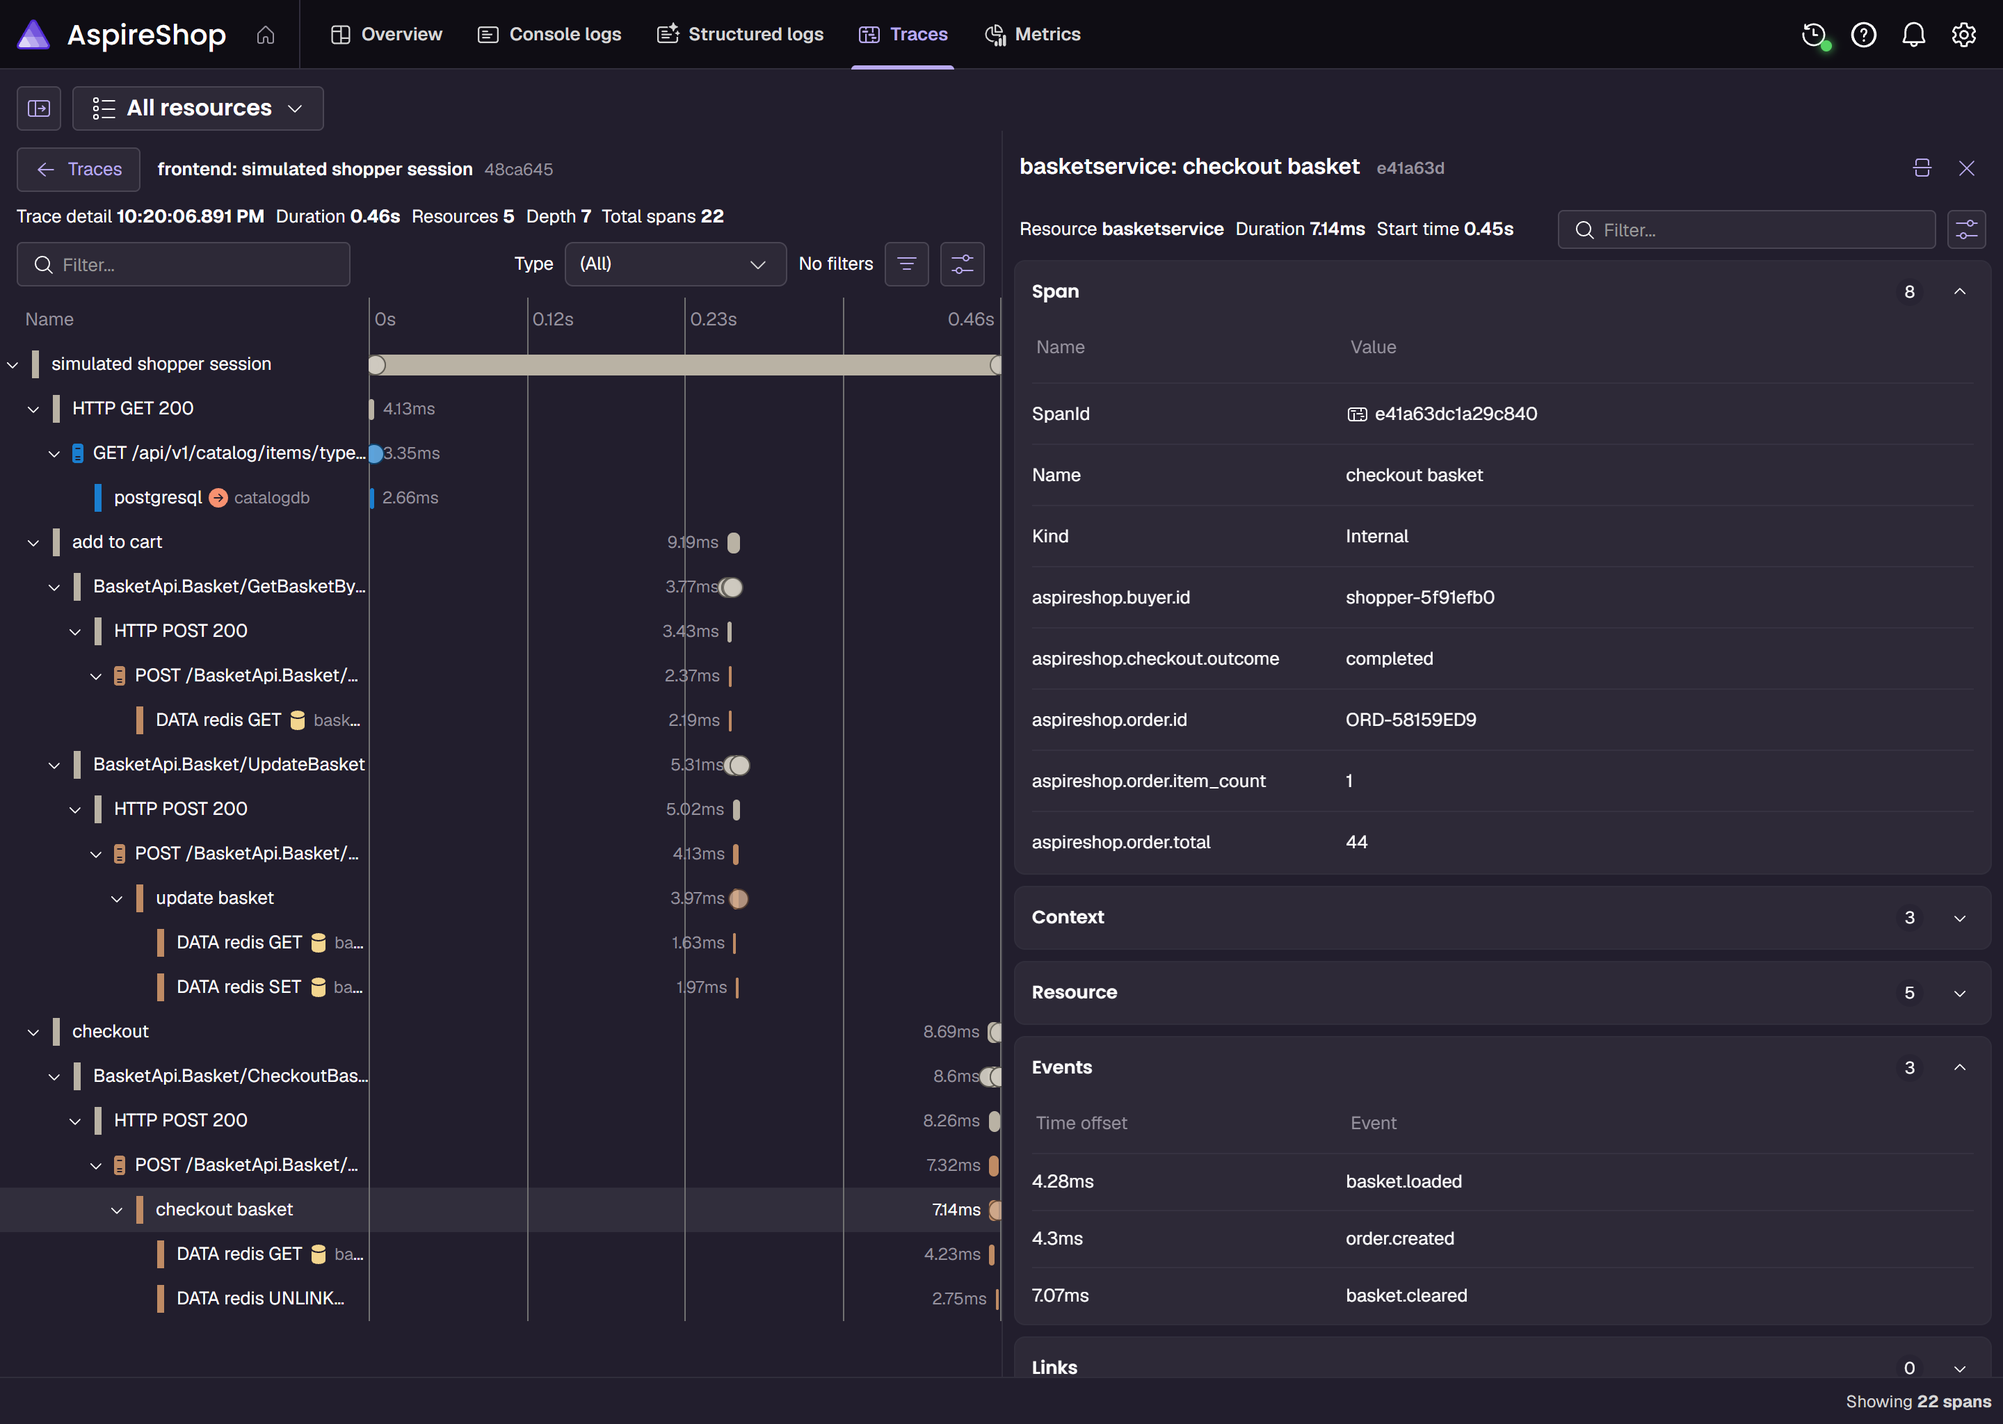
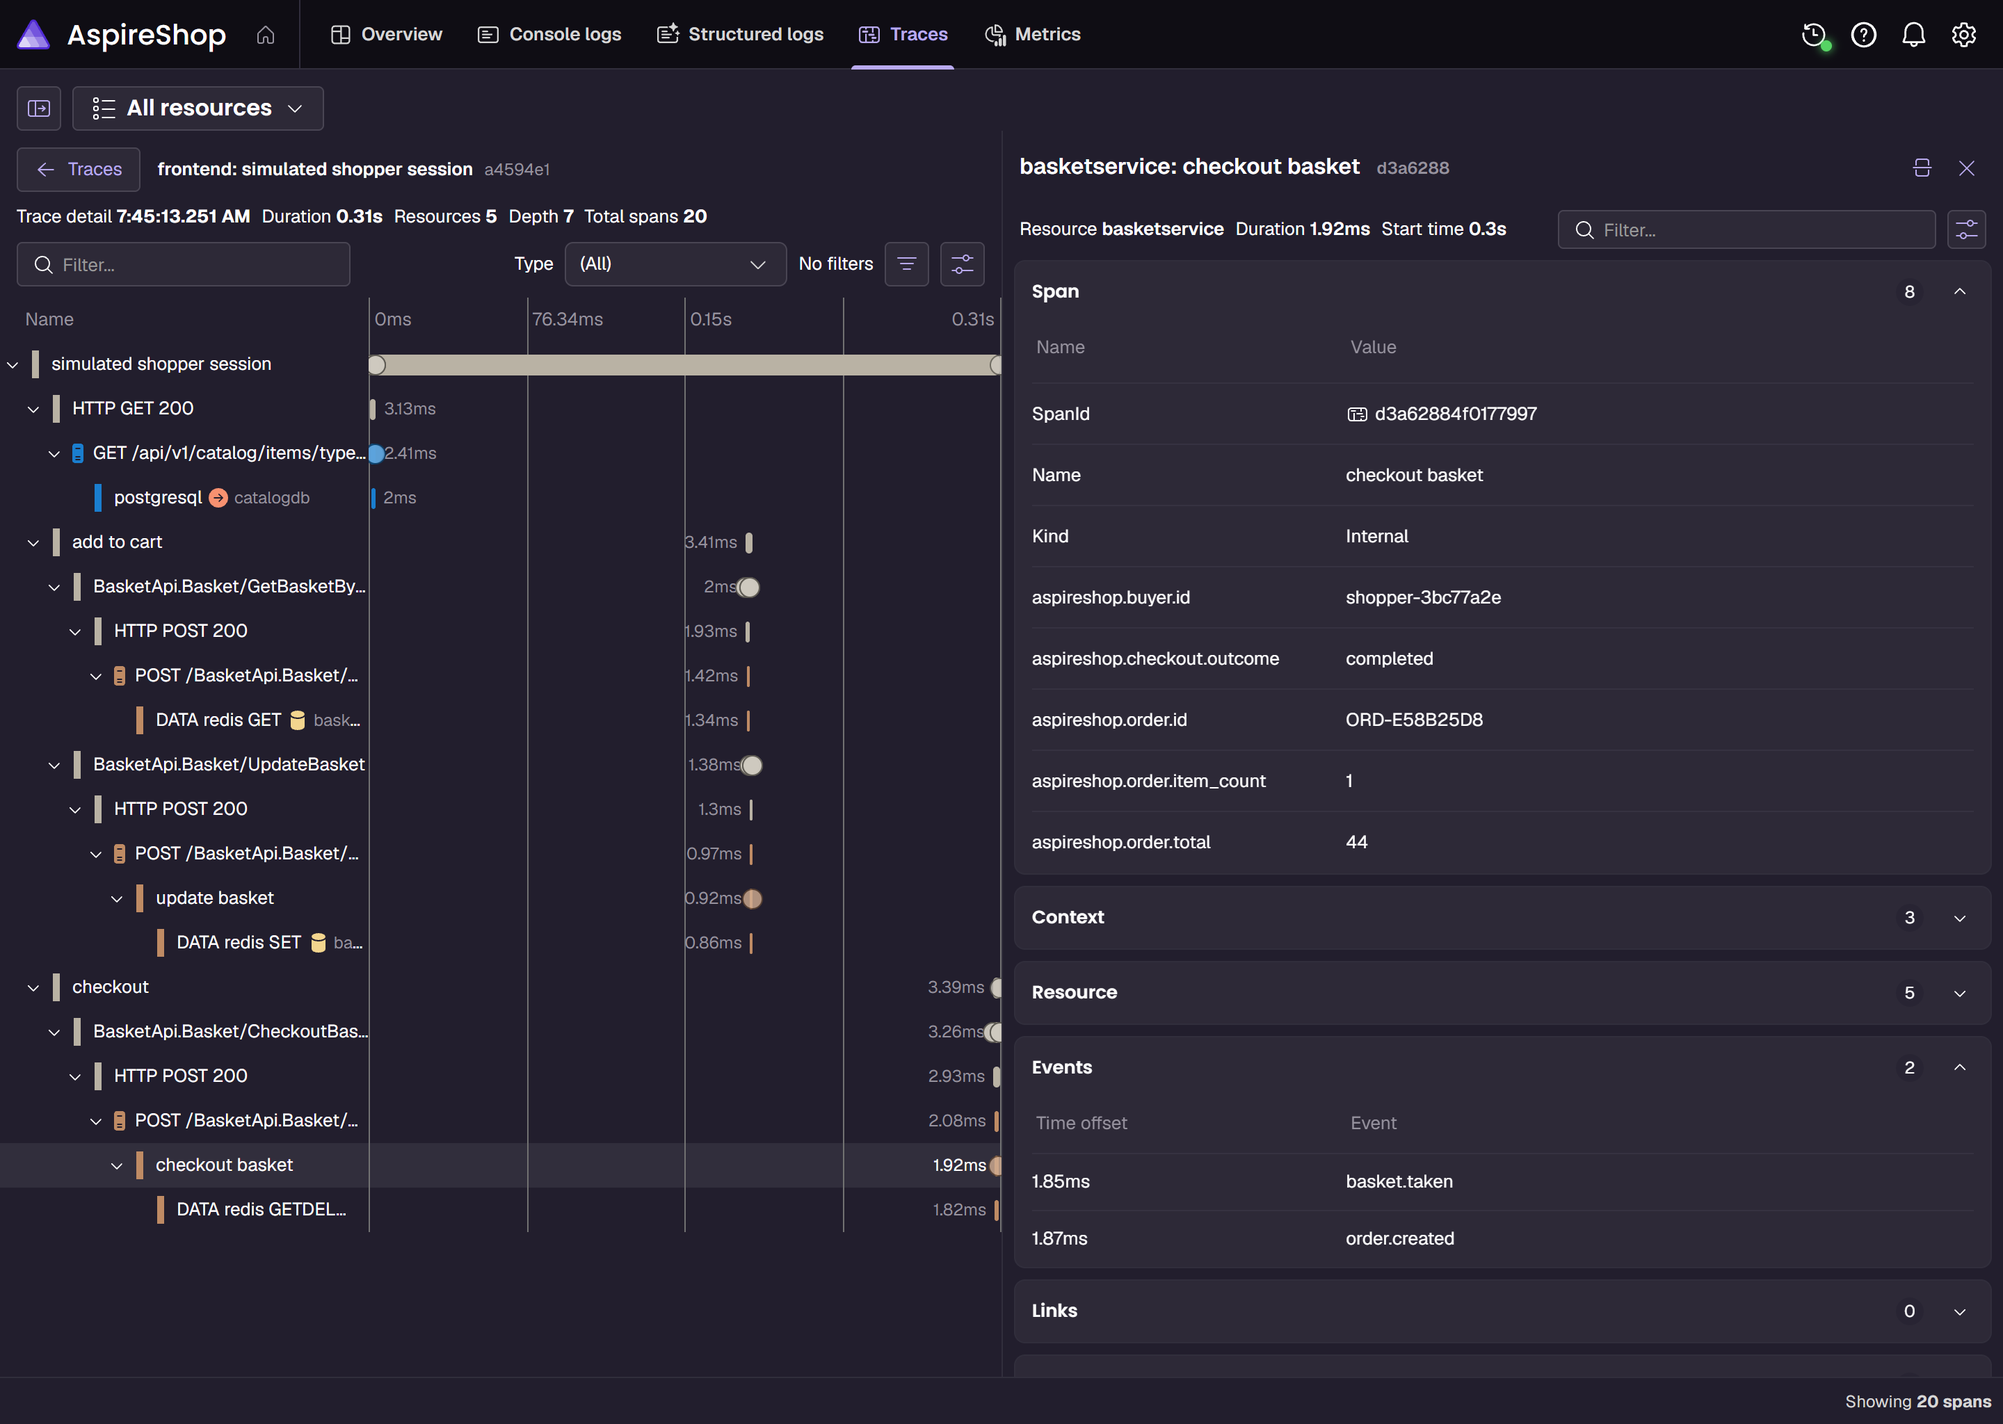
aspire-shop: address review feedback
- Basket service takes the basket with Redis GETDEL at checkout, so overlapping checkouts create one order and the rest are rejected as not_found
- UpdateBasket uses SET ... GET and derives basket metrics from the value that write replaced
- Checkout response returns the ordered items; the cart confirmation renders them at their captured unit prices, with a placeholder for unavailable products
- Cart shows captured unit prices, blocks checkout until unavailable items are removed, and backfills catalog prices for baskets saved before prices were captured
- A checkout posted after the basket was already checked out re-renders the empty cart instead of returning 400

diff --git a/samples/aspire-shop/AspireShop.Frontend/wwwroot/site.css b/samples/aspire-shop/AspireShop.Frontend/wwwroot/site.css
@@ -1229,6 +1229,12 @@ h1:focus-visible {
     width: 100%;
 }
 
+.btn:disabled {
+    opacity: .5;
+    cursor: not-allowed;
+    pointer-events: none;
+}
+
 .btn-primary {
     background: var(--accent-strong);
     color: var(--accent-contrast);

diff --git a/samples/aspire-shop/AspireShop.BasketService/BasketService.cs b/samples/aspire-shop/AspireShop.BasketService/BasketService.cs
@@ -26,16 +26,19 @@ public class BasketService(IBasketRepository repository, BasketTelemetry telemet
 
     public override async Task<CustomerBasketResponse> UpdateBasket(CustomerBasketRequest request, ServerCallContext context)
     {
+        if (string.IsNullOrEmpty(request.BuyerId))
+        {
+            throw new RpcException(new Status(StatusCode.InvalidArgument, "A buyer id is required"));
+        }
+
         using var activity = BasketTelemetry.ActivitySource.StartActivity("update basket");
         activity?.SetTag("aspireshop.buyer.id", request.BuyerId);
 
-        var previous = await repository.GetBasketAsync(request.BuyerId);
         var customerBasket = MapToCustomerBasket(request);
 
-        if (!await repository.UpdateBasketAsync(customerBasket))
-        {
-            throw new RpcException(new Status(StatusCode.NotFound, $"Basket with buyer id {request.BuyerId} does not exist"));
-        }
+        // The write returns the basket it replaced, so the metrics describe this exact change even when
+        // updates for the same buyer overlap (only one of them can find no previous basket and create it)
+        var previous = await repository.UpdateBasketAsync(customerBasket);
 
         var (itemsAdded, itemsRemoved) = CompareQuantities(previous, customerBasket);
         telemetry.BasketChanged(created: previous is null, itemsAdded, itemsRemoved);
@@ -58,13 +61,16 @@ public class BasketService(IBasketRepository repository, BasketTelemetry telemet
         using var activity = BasketTelemetry.ActivitySource.StartActivity("checkout basket");
         activity?.SetTag("aspireshop.buyer.id", buyerId);
 
-        var basket = await repository.GetBasketAsync(buyerId);
+        // Take the basket out of Redis in one step, so when checkouts of the same basket overlap only one of
+        // them gets its items and the others find no basket and are rejected
+        var basket = await repository.TakeBasketAsync(buyerId);
 
         if (basket is not { Items.Count: > 0 })
         {
             var outcome = basket is null ? "not_found" : "empty";
             activity?.SetTag("aspireshop.checkout.outcome", outcome);
-            telemetry.CheckoutRejected(outcome);
+            // An empty basket was taken too, which leaves the buyer with the same (empty) cart
+            telemetry.CheckoutRejected(outcome, basketRemoved: basket is not null);
             logger.CheckoutRejected(buyerId, outcome);
 
             throw basket is null
@@ -72,7 +78,7 @@ public class BasketService(IBasketRepository repository, BasketTelemetry telemet
                 : new RpcException(new Status(StatusCode.FailedPrecondition, $"Basket with buyer id {buyerId} is empty"));
         }
 
-        activity?.AddEvent(new ActivityEvent("basket.loaded"));
+        activity?.AddEvent(new ActivityEvent("basket.taken"));
 
         var order = new Order
         {
@@ -88,19 +94,19 @@ public class BasketService(IBasketRepository repository, BasketTelemetry telemet
 
         // Payment and fulfillment would be implemented here
 
-        await repository.DeleteBasketAsync(buyerId);
-        activity?.AddEvent(new ActivityEvent("basket.cleared"));
-
         activity?.SetTag("aspireshop.checkout.outcome", "completed");
         telemetry.CheckoutCompleted(order.Total);
         logger.OrderCreated(order.Id, buyerId, order.ItemCount, order.Total);
 
-        return new CheckoutCustomerBasketResponse
+        var response = new CheckoutCustomerBasketResponse
         {
             OrderId = order.Id,
             ItemCount = order.ItemCount,
             Total = order.Total
         };
+        response.Items.AddRange(order.Items.Select(MapToBasketItemResponse));
+
+        return response;
     }
 
     public override async Task<DeleteCustomerBasketResponse> DeleteBasket(DeleteCustomerBasketRequest request, ServerCallContext context)
@@ -134,21 +140,19 @@ public class BasketService(IBasketRepository repository, BasketTelemetry telemet
         {
             BuyerId = customerBasket.BuyerId
         };
-
-        foreach (var item in customerBasket.Items)
-        {
-            response.Items.Add(new BasketItemResponse
-            {
-                Id = item.Id ?? Guid.NewGuid().ToString(),
-                OldUnitPrice = item.OldUnitPrice,
-                ProductId = item.ProductId,
-                Quantity = item.Quantity,
-                UnitPrice = item.UnitPrice
-            });
-        }
+        response.Items.AddRange(customerBasket.Items.Select(MapToBasketItemResponse));
 
         return response;
     }
+
+    private static BasketItemResponse MapToBasketItemResponse(BasketItem item) => new()
+    {
+        Id = item.Id ?? Guid.NewGuid().ToString(),
+        OldUnitPrice = item.OldUnitPrice,
+        ProductId = item.ProductId,
+        Quantity = item.Quantity,
+        UnitPrice = item.UnitPrice
+    };
 
     private static CustomerBasket MapToCustomerBasket(CustomerBasketRequest customerBasketRequest)
     {

diff --git a/samples/aspire-shop/AspireShop.Frontend/Services/BasketServiceClient.cs b/samples/aspire-shop/AspireShop.Frontend/Services/BasketServiceClient.cs
@@ -67,7 +67,7 @@ public class BasketServiceClient(Basket.BasketClient client, FrontendTelemetry t
         try
         {
             var response = await client.CheckoutBasketAsync(new CheckoutCustomerBasketRequest { BuyerId = buyerId });
-            var order = new OrderConfirmation(response.OrderId, response.ItemCount, response.Total);
+            var order = new OrderConfirmation(response.OrderId, response.ItemCount, response.Total, [.. response.Items.Select(MapToBasketItem)]);
             var elapsed = Stopwatch.GetElapsedTime(start);
 
             activity?.SetTag("aspireshop.order.id", order.OrderId);
@@ -92,6 +92,31 @@ public class BasketServiceClient(Basket.BasketClient client, FrontendTelemetry t
     public async Task DeleteBasketAsync(string buyerId)
     {
         _ = await client.DeleteBasketAsync(new DeleteCustomerBasketRequest { BuyerId = buyerId });
+    }
+
+    /// <summary>
+    /// Baskets saved by earlier versions of the sample didn't capture a unit price. Capture the current catalog
+    /// price for those items, so the cart shows the same prices the Basket service totals at checkout.
+    /// </summary>
+    public async Task<CustomerBasket> BackfillUnitPricesAsync(CustomerBasket basket, IEnumerable<CatalogItem> catalogItems)
+    {
+        var prices = catalogItems.ToDictionary(i => i.Id, i => i.Price);
+        var unpriced = basket.Items.Where(i => i.UnitPrice <= 0 && prices.ContainsKey(i.ProductId)).ToList();
+
+        if (unpriced.Count == 0)
+        {
+            return basket;
+        }
+
+        foreach (var item in unpriced)
+        {
+            item.UnitPrice = prices[item.ProductId];
+        }
+
+        var response = await client.UpdateBasketAsync(MapToCustomerBasketRequest(basket));
+        logger.UnitPricesBackfilled(unpriced.Count, basket.BuyerId!);
+
+        return MapToCustomerBasket(response);
     }
 
     public async Task<CustomerBasket> AdjustItemQuantityAsync(string buyerId, int productId, int delta)
@@ -165,21 +190,20 @@ public class BasketServiceClient(Basket.BasketClient client, FrontendTelemetry t
         {
             BuyerId = wireBasket.BuyerId
         };
-
-        foreach (var item in wireBasket.Items)
-        {
-            response.Items.Add(new BasketItem
-            {
-                Id = item.Id,
-                OldUnitPrice = item.OldUnitPrice,
-                ProductId = item.ProductId,
-                Quantity = item.Quantity,
-                UnitPrice = item.UnitPrice
-            });
-        }
+        response.Items.AddRange(wireBasket.Items.Select(MapToBasketItem));
 
         return response;
     }
+
+    private static BasketItem MapToBasketItem(BasketItemResponse item) => new()
+    {
+        Id = item.Id,
+        OldUnitPrice = item.OldUnitPrice,
+        ProductId = item.ProductId,
+        Quantity = item.Quantity,
+        UnitPrice = item.UnitPrice
+    };
 }
 
-public record OrderConfirmation(string OrderId, int ItemCount, decimal Total);
+/// <summary>An order created by the Basket service, with the items it ordered at the prices it totaled.</summary>
+public record OrderConfirmation(string OrderId, int ItemCount, decimal Total, IReadOnlyList<BasketItem> Items);

diff --git a/samples/aspire-shop/AspireShop.BasketService/Repositories/RedisBasketRepository.cs b/samples/aspire-shop/AspireShop.BasketService/Repositories/RedisBasketRepository.cs
@@ -13,16 +13,23 @@ public class RedisBasketRepository(IConnectionMultiplexer redis) : IBasketReposi
 
     private readonly IDatabase _database = redis.GetDatabase();
 
-    public async Task<CustomerBasket?> GetBasketAsync(string buyerId)
-    {
-        var data = await _database.StringGetAsync(buyerId);
+    public async Task<CustomerBasket?> GetBasketAsync(string buyerId) =>
+        Deserialize(await _database.StringGetAsync(buyerId));
 
-        return data.IsNullOrEmpty ? null : JsonSerializer.Deserialize<CustomerBasket>((string)data!, s_jsonSerializerOptions);
+    // SET ... GET writes the basket and returns the value it replaced in one atomic command
+    public async Task<CustomerBasket?> UpdateBasketAsync(CustomerBasket basket)
+    {
+        ArgumentException.ThrowIfNullOrEmpty(basket.BuyerId);
+
+        return Deserialize(await _database.StringSetAndGetAsync(basket.BuyerId, JsonSerializer.Serialize(basket, s_jsonSerializerOptions)));
     }
 
-    public async Task<bool> UpdateBasketAsync(CustomerBasket basket) =>
-        basket.BuyerId is { Length: > 0 } buyerId
-        && await _database.StringSetAsync(buyerId, JsonSerializer.Serialize(basket, s_jsonSerializerOptions));
+    // GETDEL reads and removes the basket in one atomic command, so only one caller can take it
+    public async Task<CustomerBasket?> TakeBasketAsync(string buyerId) =>
+        Deserialize(await _database.StringGetDeleteAsync(buyerId));
 
     public Task<bool> DeleteBasketAsync(string buyerId) => _database.KeyDeleteAsync(buyerId);
+
+    private static CustomerBasket? Deserialize(RedisValue data) =>
+        data.IsNullOrEmpty ? null : JsonSerializer.Deserialize<CustomerBasket>((string)data!, s_jsonSerializerOptions);
 }

diff --git a/samples/aspire-shop/AspireShop.Frontend/Log.cs b/samples/aspire-shop/AspireShop.Frontend/Log.cs
@@ -21,4 +21,8 @@ internal static partial class Log
     [LoggerMessage(EventId = 3005, Level = LogLevel.Information,
         Message = "Simulated {ShopperCount} shoppers: {OrdersPlaced} orders placed ({Revenue} USD), {BasketsAbandoned} baskets abandoned, {BasketsLeftOpen} left open, {Failed} failed")]
     public static partial void ShopperTrafficSimulated(this ILogger logger, int shopperCount, int ordersPlaced, decimal revenue, int basketsAbandoned, int basketsLeftOpen, int failed);
+
+    [LoggerMessage(EventId = 3006, Level = LogLevel.Information,
+        Message = "Captured catalog prices for {ItemCount} unpriced items in the basket for buyer {BuyerId}")]
+    public static partial void UnitPricesBackfilled(this ILogger logger, int itemCount, string buyerId);
 }

diff --git a/samples/aspire-shop/AspireShop.BasketService/Repositories/IBasketRepository.cs b/samples/aspire-shop/AspireShop.BasketService/Repositories/IBasketRepository.cs
@@ -5,6 +5,12 @@ namespace AspireShop.BasketService.Repositories;
 public interface IBasketRepository
 {
     Task<CustomerBasket?> GetBasketAsync(string buyerId);
-    Task<bool> UpdateBasketAsync(CustomerBasket basket);
+
+    /// <summary>Saves the basket and returns the basket it replaced, or <see langword="null"/> if the buyer had none.</summary>
+    Task<CustomerBasket?> UpdateBasketAsync(CustomerBasket basket);
+
+    /// <summary>Removes the basket and returns it, or <see langword="null"/> if the buyer had none.</summary>
+    Task<CustomerBasket?> TakeBasketAsync(string buyerId);
+
     Task<bool> DeleteBasketAsync(string buyerId);
 }

diff --git a/samples/aspire-shop/AspireShop.BasketService/BasketTelemetry.cs b/samples/aspire-shop/AspireShop.BasketService/BasketTelemetry.cs
@@ -77,7 +77,15 @@ public sealed class BasketTelemetry
         _orderValue.Record((double)orderTotal);
     }
 
-    public void CheckoutRejected(string outcome) => _checkouts.Add(1, Outcome(outcome));
+    public void CheckoutRejected(string outcome, bool basketRemoved)
+    {
+        if (basketRemoved)
+        {
+            _activeBaskets.Add(-1);
+        }
+
+        _checkouts.Add(1, Outcome(outcome));
+    }
 
     private static KeyValuePair<string, object?> Outcome(string outcome) => new("aspireshop.checkout.outcome", outcome);
 }

diff --git a/samples/aspire-shop/README.md b/samples/aspire-shop/README.md
@@ -62,12 +62,12 @@ Invalid paging (for example, both `before` and `after`) returns a `400` validati
 
 ### Traces
 
-![Aspire dashboard trace of a simulated shopper session that spans the frontend, the catalog service and PostgreSQL, and the basket service and Redis, with the checkout basket span selected to show its order attributes and events (light theme)](./images/aspire-shop-trace-light.png#gh-light-mode-only)
-![Aspire dashboard trace of a simulated shopper session that spans the frontend, the catalog service and PostgreSQL, and the basket service and Redis, with the checkout basket span selected to show its order attributes and events (dark theme)](./images/aspire-shop-trace-dark.png#gh-dark-mode-only)
+![Aspire dashboard trace of a simulated shopper session that spans the frontend, the catalog service and PostgreSQL, and the basket service and Redis, with the checkout basket span selected to show its order attributes and its basket.taken and order.created events (light theme)](./images/aspire-shop-trace-light.png#gh-light-mode-only)
+![Aspire dashboard trace of a simulated shopper session that spans the frontend, the catalog service and PostgreSQL, and the basket service and Redis, with the checkout basket span selected to show its order attributes and its basket.taken and order.created events (dark theme)](./images/aspire-shop-trace-dark.png#gh-dark-mode-only)
 
 - **simulated shopper session**: each simulated shopper gets its own trace, linked to the command request that started the simulation. It shows the shopper browsing the catalog (frontend → catalog service → PostgreSQL), adding items to the cart (frontend → gRPC → basket service → Redis), and checking out.
-- **checkout**: the frontend `checkout` span wraps the `BasketApi.Basket/CheckoutBasket` gRPC call. In the basket service, the `checkout basket` span carries `aspireshop.buyer.id`, `aspireshop.order.id`, `aspireshop.order.item_count`, `aspireshop.order.total`, and `aspireshop.checkout.outcome`, and records the `basket.loaded`, `order.created`, and `basket.cleared` events around the Redis `GET` and `UNLINK` commands.
-- **add to cart**: the frontend span covers reading the basket and the gRPC `UpdateBasket` call. The basket service's `update basket` span records a `basket.changed` event with the number of items added and removed.
+- **checkout**: the frontend `checkout` span wraps the `BasketApi.Basket/CheckoutBasket` gRPC call. In the basket service, the `checkout basket` span carries `aspireshop.buyer.id`, `aspireshop.order.id`, `aspireshop.order.item_count`, `aspireshop.order.total`, and `aspireshop.checkout.outcome`, and records the `basket.taken` and `order.created` events. The basket is taken with a single Redis `GETDEL`, so when two checkouts of the same basket overlap, only one creates an order and the other is rejected as `not_found`.
+- **add to cart**: the frontend span covers reading the basket and the gRPC `UpdateBasket` call. The basket service saves the basket with Redis `SET ... GET`, and its `update basket` span records a `basket.changed` event with the number of items added and removed compared with the basket that write replaced.
 - **Catalog requests**: the catalog service tags its request spans with `aspireshop.catalog.filter`, `aspireshop.catalog.page.direction`, `aspireshop.catalog.page.size`, and `aspireshop.catalog.page.item_count`.
 - **initialize catalog database**: the catalog manager's startup trace covers the EF Core migrations and the `seed catalog` span.
 
